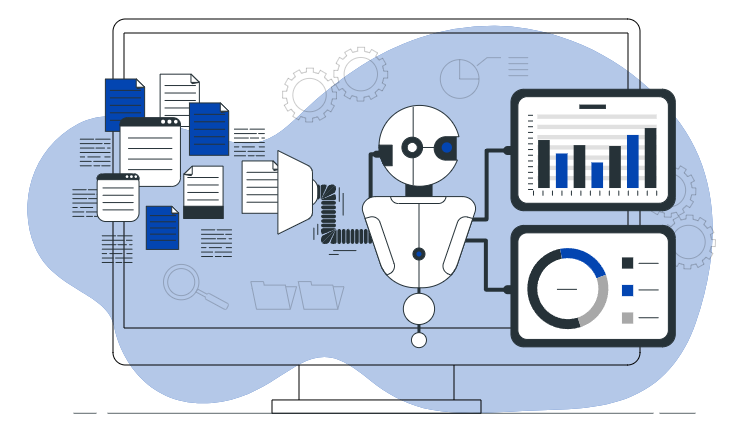
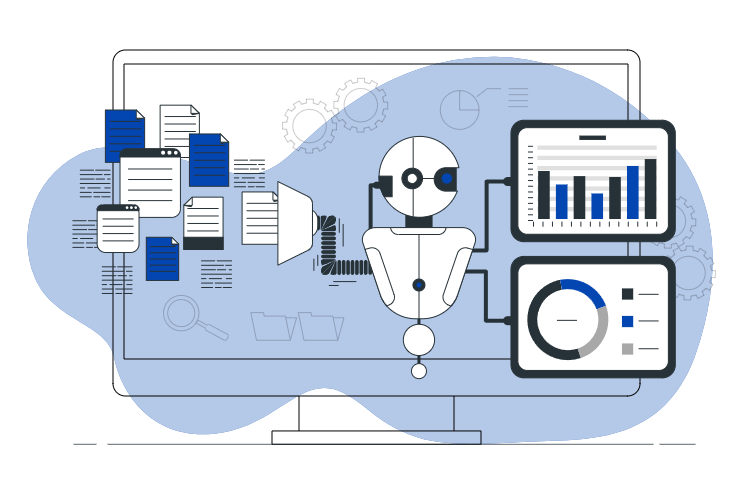
Update

diff --git a/index.html b/index.html
@@ -57,7 +57,7 @@
         </div>
         <div>
           <div class="hidden md:block">
-            <img src="./Data extraction-bro2.png">
+            <img src="./Data extraction-bro2.svg">
           </div>
         </div>
       </div>
